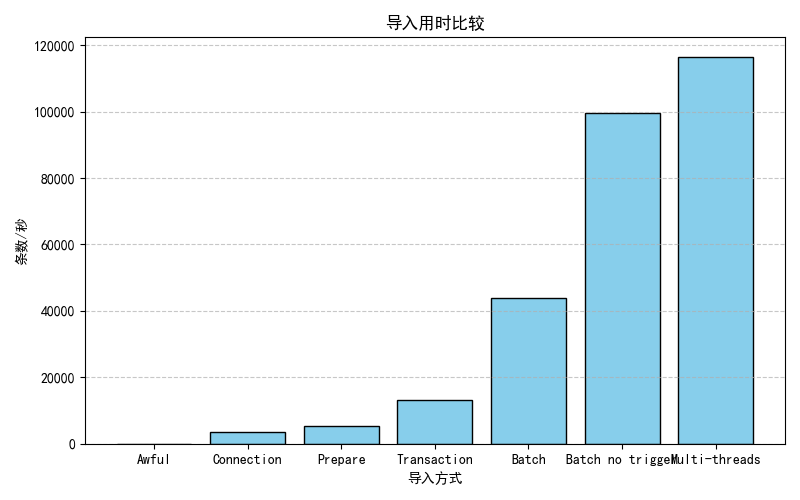
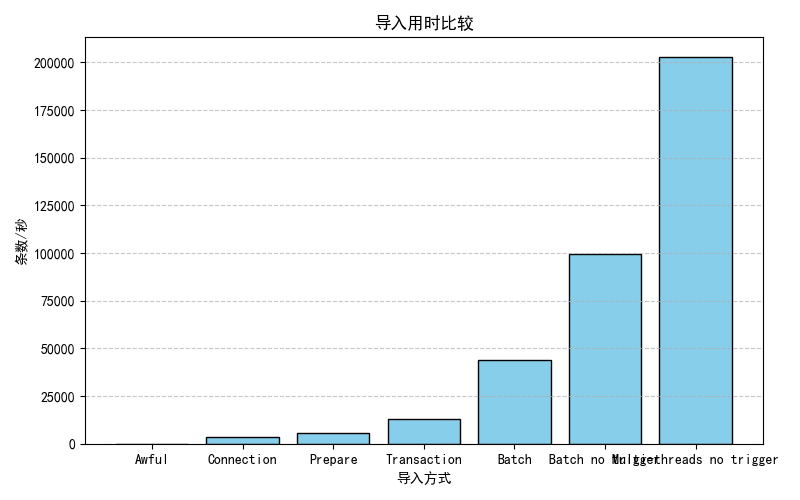
Advanced modified

diff --git a/Loader/src/Loaders/LoaderMultiThreaded.java b/Loader/src/Loaders/LoaderMultiThreaded.java
@@ -18,8 +18,8 @@ public class LoaderMultiThreaded {
         Properties prop = loadDBUser();
 
         clearDataInTable(prop);
+        disableTrigger(prop);
 
-        // multi thread execution
         int total = lines.size();
         int chunkSize = (total + THREAD_COUNT - 1) / THREAD_COUNT;
         ExecutorService executor = Executors.newFixedThreadPool(THREAD_COUNT);
@@ -43,6 +43,8 @@ public class LoaderMultiThreaded {
                 throw new RuntimeException("thread execution failed", e);
             }
         }
+
+        enableTrigger(prop);
 
         long end = System.currentTimeMillis();
         System.out.println("insert " + totalInserted + " data successfully!");
@@ -92,6 +94,34 @@ public class LoaderMultiThreaded {
             }
         } catch (Exception e) {
             throw new RuntimeException("failed to clear table", e);
+        }
+    }
+
+    private static void disableTrigger(Properties prop) {
+        try {
+            Class.forName("org.postgresql.Driver");
+            String url = "jdbc:postgresql://" + prop.getProperty("host") + "/" + prop.getProperty("database");
+            try (Connection con = DriverManager.getConnection(url, prop)) {
+                Statement stmt = con.createStatement();
+                stmt.executeUpdate("ALTER TABLE Contract_details DISABLE TRIGGER ALL;");
+                System.out.println("trigger disabled");
+            }
+        } catch (Exception e) {
+            throw new RuntimeException("failed to disable triggers", e);
+        }
+    }
+
+    private static void enableTrigger(Properties prop) {
+        try {
+            Class.forName("org.postgresql.Driver");
+            String url = "jdbc:postgresql://" + prop.getProperty("host") + "/" + prop.getProperty("database");
+            try (Connection con = DriverManager.getConnection(url, prop)) {
+                Statement stmt = con.createStatement();
+                stmt.executeUpdate("ALTER TABLE Contract_details ENABLE TRIGGER ALL;");
+                System.out.println("trigger enabled");
+            }
+        } catch (Exception e) {
+            throw new RuntimeException("failed to enable triggers", e);
         }
     }
 

diff --git a/Loader/src/Loaders/Loader1Awful.java b/Loader/src/Loaders/Loader1Awful.java
@@ -21,10 +21,10 @@ public class Loader1Awful {
         String url = "jdbc:postgresql://" + prop.getProperty("host") + "/" + prop.getProperty("database");
         try {
             con = DriverManager.getConnection(url, prop);
-            if (con != null) {
-                System.out.println("Successfully connected to the database "
-                        + prop.getProperty("database") + " as " + prop.getProperty("user"));
-            }
+//            if (con != null) {
+//                System.out.println("Successfully connected to the database "
+//                        + prop.getProperty("database") + " as " + prop.getProperty("user"));
+//            }
         } catch (SQLException e) {
             System.err.println("Database connection failed");
             System.err.println(e.getMessage());
@@ -129,7 +129,9 @@ public class Loader1Awful {
             cnt++;
             if (cnt % 1000 == 0) {
                 System.out.println("Inserted " + cnt + " records...");
+                break;
             }
+
         }
 
         closeDB();

diff --git a/Loader/src/Loaders/Loader3Prepare.java b/Loader/src/Loaders/Loader3Prepare.java
@@ -137,6 +137,7 @@ public class Loader3Prepare {
             cnt++;
             if (cnt % 1000 == 0) {
                 System.out.println("insert " + cnt + " data successfully!");
+                if (cnt == 50_0000) break;
             }
         }
 
@@ -144,6 +145,8 @@ public class Loader3Prepare {
         long end = System.currentTimeMillis();
         System.out.println(cnt + " records successfully loaded");
         System.out.println("Loading speed : " + (cnt * 1000L) / (end - start) + " records/s");
+        double run_time = (end - start)/1000.0;
+        System.out.println(String.format("%.2fs", run_time));
     }
 }
 

diff --git a/Loader/src/Loaders/Graph_generator.py b/Loader/src/Loaders/Graph_generator.py
@@ -1,0 +1,22 @@
+import matplotlib
+import matplotlib.pyplot as plt
+
+matplotlib.rcParams['font.sans-serif'] = ['SimHei']
+matplotlib.rcParams['axes.unicode_minus'] = False
+
+values = [18, 3636, 5446, 13160, 44029, 99482, 202922]
+
+labels = ['Awful', 'Connection', 'Prepare', 'Transaction', 'Batch',
+          'Batch no trigger', 'Multi-threads no trigger']
+
+plt.figure(figsize=(8, 5))
+plt.bar(labels, values, color='skyblue', edgecolor='black')
+
+plt.title('导入用时比较')
+plt.xlabel('导入方式')
+plt.ylabel('条数/秒')
+
+# 显示图形
+plt.grid(axis='y', linestyle='--', alpha=0.7)
+plt.tight_layout()
+plt.show()

diff --git a/Loader/src/Loaders/BatchComparator.py b/Loader/src/Loaders/BatchComparator.py
@@ -1,0 +1,22 @@
+import matplotlib
+import matplotlib.pyplot as plt
+
+matplotlib.rcParams['font.sans-serif'] = ['SimHei']
+matplotlib.rcParams['axes.unicode_minus'] = False
+
+values = [42651, 44412, 45405, 45101, 45400, 45520, 44927, 44931]
+
+labels = ['400', '600', '800', '1000', '1200',
+          '1400', '1600', '1800']
+
+plt.figure(figsize=(8, 5))
+plt.bar(labels, values, color='skyblue', edgecolor='black')
+
+plt.title('批量导入用时比较')
+plt.xlabel('batch size')
+plt.ylabel('records/s')
+
+# 显示图形
+plt.grid(axis='y', linestyle='--', alpha=0.7)
+plt.tight_layout()
+plt.show()

diff --git a/Loader/src/Loaders/BatchNoTrigger.java b/Loader/src/Loaders/BatchNoTrigger.java
@@ -175,5 +175,7 @@ public class BatchNoTrigger {
         long end = System.currentTimeMillis();
         System.out.println(cnt + " records successfully loaded");
         System.out.println("Loading speed : " + (cnt * 1000L) / (end - start) + " records/s");
+        double run_time = (end - start)/1000.0;
+        System.out.println(String.format("%.2fs", run_time));
     }
 }

diff --git a/Loader/src/Loaders/Loader5Batch.java b/Loader/src/Loaders/Loader5Batch.java
@@ -158,6 +158,7 @@ public class Loader5Batch {
         long end = System.currentTimeMillis();
         System.out.println(cnt + " records successfully loaded");
         System.out.println("Loading speed : " + (cnt * 1000L) / (end - start) + " records/s");
-
+        double run_time = (end - start)/1000.0;
+        System.out.println(String.format("%.2fs", run_time));
     }
 }

diff --git a/Loader/src/Loader.java b/Loader/src/Loader.java
@@ -190,6 +190,9 @@ public class Loader {
         long end = System.currentTimeMillis();
         System.out.println(cnt + " records successfully loaded");
         System.out.println("Loading speed : " + (cnt * 1000L) / (end - start) + " records/s");
+        double run_time = (end - start)/1000.0;
+        System.out.println(String.format("%.2fs", run_time));
+
     }
 }
 

diff --git a/README.md b/README.md
@@ -67,15 +67,15 @@
 
 #### Task 3.1 Basic Requirements:
 
-| 脚本名称                 | 作者          | 描述                                                         |
-| ------------------------ | ------------- | ------------------------------------------------------------ |
-| CSVFormatAdjustment.java | 陈明志&邱天润 | 数据筛选与格式调整调整。                                     |
-| CSVReader.java           | 陈明志        | 通过运行这个Java脚本可以将全部数据分割为8个txt文件作为中间文件，分别对应数据库设计的8个表格。 |
-| SQLGenerator.java        | 陈明志        | 将Resources中的8个txt文件作为输入，运行该脚本可以得到所有的建表语句以及插入内容的sql文件 |
-| Loader.java              | 邱天润        | 运行这个Java脚本可以导入所有的数据到数据库中                 |
-| FullLoader_MySQL.java    | 邱天润        | 运行这个Java脚本可以导入所有的数据到MySQL数据库中            |
-| cpp_loader.cpp           | 沈泓立        | 运行这个C++脚本可以成功导入所有数据，使用libpqxx库连接PostgreSQL数据库。其中有两种导入方式，一种是普通逐行导入，另一种是批量管道导入 |
-| python_loader.python     | 沈泓立        | 运行这个python脚本可以成功导入所有数据，使用了psycopg2库来连接和操作PostgreSQL数据库。其中有两种导入方式，一种是普通逐行导入，另一种是依赖于文本读取的批量导入 |
+| 脚本名称                 | 作者   | 描述                                                         |
+| ------------------------ | ------ | ------------------------------------------------------------ |
+| CSVFormatAdjustment.java | 郑袭明 | 数据筛选与格式调整调整。                                     |
+| CSVReader.java           | 郑袭明 | 通过运行这个Java脚本可以将全部数据分割为8个txt文件作为中间文件，分别对应数据库设计的8个表格。 |
+| SQLGenerator.java        | 郑袭明 | 将Resources中的8个txt文件作为输入，运行该脚本可以得到所有的建表语句以及插入内容的sql文件 |
+| Loader.java              | 郑袭明 | 运行这个Java脚本可以导入所有的数据到数据库中                 |
+| FullLoader_MySQL.java    | 沈泓立 | 运行这个Java脚本可以导入所有的数据到MySQL数据库中            |
+| cpp_loader.cpp           | 沈泓立 | 运行这个C++脚本可以成功导入所有数据，使用libpqxx库连接PostgreSQL数据库。其中有两种导入方式，一种是普通逐行导入，另一种是批量管道导入 |
+| python_loader.python     | 沈泓立 | 运行这个python脚本可以成功导入所有数据，使用了psycopg2库来连接和操作PostgreSQL数据库。其中有两种导入方式，一种是普通逐行导入，另一种是依赖于文本读取的批量导入 |
 
 在处理数据的过程中，我们通过创造了中间文件的方式来处理数据。
 
@@ -179,4 +179,53 @@ where contract_number = 'CSE0000003';
 
 #### Task 3.3 Advanced requirements
 
-###  
+##### 1. Try to **optimize your script**, and find **more than one ways** to import data, and provide a comparative analysis of the computational **efficiencies** between these ways.
+
+我们使用多种方法试图优化，包括恒定Connection，引入Prepare Statement，引入Transaction机制，批量导入，多线程优化和在导入时Disable All Triggers的优化，共六条。
+
+其中，前四条为Lab课上所提到的优化方式的实现。相关测试代码呈现在`/src/Loaders`中。为了方便比较，我们选用了多个表中的`Contract_details`一表作为比较对象，共 500000 条数据。
+
+其中，Windows 测试的硬件环境为：
+
+- **Lenovo Legion R9000P ARX8，AMD Ryzen 7 7745HX，32GB RAM，2TB SSD**
+- **Windows 11，IntelliJ IDEA 2023.3.4，PostgreSQL 17.3**
+
+| 采用以下的输出形式                                           | 导入用时比较                                                 |
+| ------------------------------------------------------------ | ------------------------------------------------------------ |
+| ![](https://github.com/renmiamu/CS307_Principles_of_Database_System_Project1/blob/main/Photos/format.png) | ![](https://github.com/renmiamu/CS307_Principles_of_Database_System_Project1/blob/main/Photos/LoaderComparator.png) |
+
+其中，Batch导入方式导入方式采取如下参数：
+
+- `BATCH_SIZE = 1000`。
+
+不难发现，各种导入方式速度逐渐得到提升，而最优的方式即为Multi-threads (With batches, no trigger)的方式，达到了116495条数/秒的高速。
+
+所有的Batch导入尝试和Multi-threads导入尝试罗列如下：
+
+![](https://github.com/renmiamu/CS307_Principles_of_Database_System_Project1/blob/main/Photos/MultiThreadComparator.png)
+
+可以看到，导入速度在 `batch size` = 800 到 `batch size` = 1800 的区间内并无显著区别，均为45000 records/s 左右，且每次运行得到的导入速度也不尽相同，可能会上下浮动500 records/s 左右。因此选取上述区间中任意作为`batch size`均可，并无显著区别。
+
+对于在导入时Disable Trigger的行为，我们也有所实践：
+
+| Data             | Initial time | Optimized time | Multiple of optimization |
+| ---------------- | ------------ | -------------- | ------------------------ |
+| Contract_details | 11.23s       | 4.96s          | 2.26                     |
+
+可以看出，通过Disable Trigger，可以显著加快导入速度。当然，这么做的前提是所有数据已经经过前置检测，确认无误，否则可能导致数据库导入了错误的数据。
+
+ 
+
+##### 5. Try to import data with different data volumes.
+
+在这一部分中，我们修改了Contract_details表的导入量，使用 Loader3Prepare 导入Contract_details表中，基于不同数据量分别观察导入效率。详细数据见下表：
+
+可以看到，并没有产生明显的性能差异，导入效率基本在 5500 records/s左右。
+
+| N（总指令数） | 总时间 | 每秒插入指令数量 |
+| ------------- | ------ | ---------------- |
+| 1w            | 1.89s  | 5279             |
+| 5w            | 9.10s  | 5495             |
+| 10w           | 18.08s | 5531             |
+| 25w           | 45.05s | 5548             |
+| 50w           | 89.74s | 5571             |
